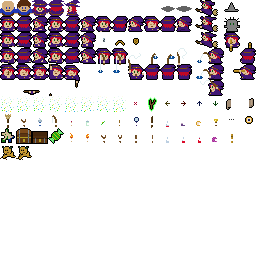
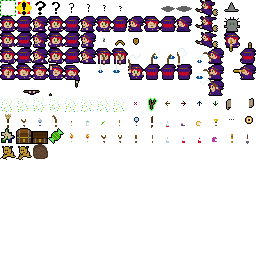
shovel, magnifier, buried treasure

Changed region(s): [[0.0, 0.0, 0.3125, 0.0625], [0.125, 0.5625, 0.1875, 0.625], [0.9375, 0.5312, 0.9688, 0.5625]]

diff --git a/src/game/hero/hero_item.c b/src/game/hero/hero_item.c
@@ -680,6 +680,146 @@ static void telescope_update(struct sprite *sprite,double elapsed) {
   }
 }
 
+/* Shovel. Update is passive.
+ */
+ 
+static void shovel_update(struct sprite *sprite,double elapsed) {
+  SPRITE->qx=(int)(sprite->x+SPRITE->facedx*0.750);
+  SPRITE->qy=(int)(sprite->y+SPRITE->facedy*0.750);
+}
+ 
+static int shovel_begin(struct sprite *sprite) {
+
+  // Confirm map cell is vacant or safe.
+  struct map *map=map_by_sprite_position(SPRITE->qx,SPRITE->qy,sprite->z);
+  if (!map) return 0;
+  int col=SPRITE->qx%NS_sys_mapw;
+  int row=SPRITE->qy%NS_sys_maph;
+  uint8_t physics=map->physics[map->v[row*NS_sys_mapw+col]];
+  switch (physics) {
+    case NS_physics_vacant:
+    case NS_physics_safe:
+      break;
+    default: return 0;
+  }
+  
+  // Check whether there's already a hole there.
+  double x=SPRITE->qx+0.5;
+  double y=SPRITE->qy+0.5;
+  struct sprite **otherp=GRP(visible)->sprv;
+  int i=GRP(visible)->sprc;
+  for (;i-->0;otherp++) {
+    struct sprite *other=*otherp;
+    if (other->defunct) continue;
+    if (other->rid!=RID_sprite_hole) continue;
+    if (other->x<x-0.1) continue;
+    if (other->x>x+0.1) continue;
+    if (other->y<y-0.1) continue;
+    if (other->y>y+0.1) continue;
+    return 0; // Already dug.
+  }
+  
+  // Do it.
+  struct sprite *hole=sprite_spawn(x,y,RID_sprite_hole,0,0,0,0,0);
+  if (!hole) return 0;
+  //TODO digging animation
+  
+  // Scan map's commands for anything buried here.
+  struct cmdlist_reader reader={.v=map->cmd,.c=map->cmdc};
+  struct cmdlist_entry cmd;
+  while (cmdlist_reader_next(&cmd,&reader)>0) {
+    switch (cmd.opcode) {
+      case CMD_map_buriedtreasure: {
+          if (cmd.arg[0]!=col) continue;
+          if (cmd.arg[1]!=row) continue;
+          int fld=(cmd.arg[2]<<8)|cmd.arg[3];
+          if (store_get_fld(fld)) continue;
+          store_set_fld(fld,1);
+          int itemid=(cmd.arg[4]<<8)|cmd.arg[5];
+          int quantity=cmd.arg[6];
+          game_get_item(itemid,quantity);
+          return 1;
+        }
+    }
+  }
+  
+  // Nothing buried here, so just make the dig sound and we're done.
+  bm_sound(RID_sound_dig);
+  return 1;
+}
+
+/* Magnifier. Updates passively.
+ * Copies most of Divining Rod's logic, and borrows some of the same plumbing.
+ */
+ 
+static void magnifier_update(struct sprite *sprite,double elapsed) {
+  int qx=(int)sprite->x;
+  int qy=(int)sprite->y;
+  if ((qx==SPRITE->qx)&&(qy==SPRITE->qy)) return;
+  SPRITE->qx=qx;
+  SPRITE->qy=qy;
+}
+
+static double nearest_secret_distance2(const struct secret *v,int c,double x,double y) {
+  double bestd2=999.999;
+  for (;c-->0;v++) {
+    double dx=v->x-x;
+    double dy=v->y-y;
+    double d2=dx*dx+dy*dy;
+    if (d2<bestd2) bestd2=d2;
+  }
+  return bestd2;
+}
+ 
+static int magnifier_begin(struct sprite *sprite) {
+  SPRITE->divining_alert_clock=0.500;
+  int soundid=RID_sound_negatory;
+
+  /* Prepare the alerts with quantized positions and the negative tile.
+   */
+  struct divining_alert *alert=SPRITE->divining_alertv;
+  int dy=-1; for (;dy<=1;dy++) {
+    int dx=-1; for (;dx<=1;dx++,alert++) {
+      alert->tileid=0x68;
+      alert->x=(SPRITE->qx+dx)*NS_sys_tilesize+(NS_sys_tilesize>>1);
+      alert->y=(SPRITE->qy+dy)*NS_sys_tilesize+(NS_sys_tilesize>>1);
+    }
+  }
+  
+  /* Ask map store to list nearby secrets.
+   * If there's none, we can wrap up.
+   */
+  #define SECRETS_LIMIT 8
+  struct secret secretv[SECRETS_LIMIT];
+  int secretc=game_find_secrets(secretv,SECRETS_LIMIT,sprite->x,sprite->y,sprite->z,8.0);
+  #undef SECRETS_LIMIT
+  if (secretc<1) {
+    bm_sound(RID_sound_negatory);
+    return 1;
+  }
+  
+  /* For each cell in (divining_alertv), find the distance to the nearest secret,
+   * and that determines the tile we'll display.
+   * If we show anything other than the default 0x68, we'll play the affirmative sound.
+   */
+  for (alert=SPRITE->divining_alertv,dy=-1;dy<=1;dy++) {
+    int dx=-1; for (;dx<=1;dx++,alert++) {
+      double alertx=SPRITE->qx+dx+0.5;
+      double alerty=SPRITE->qy+dy+0.5;
+      double distance=nearest_secret_distance2(secretv,secretc,alertx,alerty);
+           if (distance<0.5*0.5) { soundid=RID_sound_affirmative; alert->tileid=0x01; }
+      else if (distance<1.5*1.5) { soundid=RID_sound_affirmative; alert->tileid=0x02; }
+      else if (distance<2.5*2.5) { soundid=RID_sound_affirmative; alert->tileid=0x03; }
+      else if (distance<3.5*3.5) { soundid=RID_sound_affirmative; alert->tileid=0x04; }
+      else if (distance<4.5*4.5) { soundid=RID_sound_affirmative; alert->tileid=0x05; }
+      else if (distance<5.5*5.5) { soundid=RID_sound_affirmative; alert->tileid=0x06; }
+      else if (distance<6.5*6.5) { soundid=RID_sound_affirmative; alert->tileid=0x07; }
+    }
+  }
+  bm_sound(soundid);
+  return 1;
+}
+
 /* Update items, main entry point.
  */
  
@@ -700,11 +840,13 @@ void hero_item_update(struct sprite *sprite,double elapsed) {
     return;
   }
   
-  /* Divining Rod and Compass get updated passively just by virtue of being equipped.
+  /* Some items get updated passively just by virtue of being equipped.
    */
   switch (g.store.invstorev[0].itemid) {
     case NS_itemid_divining: divining_update(sprite,elapsed); break;
     case NS_itemid_compass: compass_update(sprite,elapsed); break;
+    case NS_itemid_shovel: shovel_update(sprite,elapsed); break;
+    case NS_itemid_magnifier: magnifier_update(sprite,elapsed); break;
   }
   
   // No starting items if injured.
@@ -734,6 +876,8 @@ void hero_item_update(struct sprite *sprite,double elapsed) {
       case NS_itemid_bell: result=bell_begin(sprite); break;
       case NS_itemid_barrelhat: result=barrelhat_begin(sprite); break;
       case NS_itemid_telescope: result=telescope_begin(sprite); break;
+      case NS_itemid_shovel: result=shovel_begin(sprite); break;
+      case NS_itemid_magnifier: result=magnifier_begin(sprite); break;
     }
     if (!result) {
       bm_sound(RID_sound_reject);

diff --git a/src/game/game.c b/src/game/game.c
@@ -517,6 +517,15 @@ static const struct item_detail item_detailv[]={
     .inventoriable=1,
     .fld16=0,
   },
+  [NS_itemid_shovel]={
+    .tileid=0x4d,
+    .hand_tileid=0x8f,
+    .strix_name=54,
+    .strix_help=55,
+    .initial_limit=0,
+    .inventoriable=1,
+    .fld16=0,
+  },
 };
  
 const struct item_detail *item_detail_for_itemid(int itemid) {
@@ -637,4 +646,88 @@ void game_hurt_hero() {
     store_set_fld16(NS_fld16_hp,hp);
     bm_sound(RID_sound_ouch);
   }
+}
+
+/* List nearby secrets, within one map.
+ */
+ 
+static int game_find_secrets_1(struct secret *dst,int dsta,struct map *map,double x,double y,double r2) {
+  if (dsta<1) return 0;
+  int dstc=0;
+  double x0=(double)(map->lng*NS_sys_mapw)+0.5;
+  double y0=(double)(map->lat*NS_sys_maph)+0.5;
+  struct cmdlist_reader reader={.v=map->cmd,.c=map->cmdc};
+  struct cmdlist_entry cmd;
+  while (cmdlist_reader_next(&cmd,&reader)>0) {
+    switch (cmd.opcode) {
+    
+      case CMD_map_door: {
+          //TODO I'm sure we'll soon want buried doors in addition to buried treasure.
+        } break;
+        
+      case CMD_map_buriedtreasure: {
+          int fld=(cmd.arg[2]<<8)|cmd.arg[3];
+          if (store_get_fld(fld)) break; // Already got; skip it.
+          double poix=cmd.arg[0]+x0;
+          double poiy=cmd.arg[1]+y0;
+          double dx=x-poix;
+          double dy=y-poiy;
+          double d2=dx*dx+dy*dy;
+          if (d2<r2) {
+            struct secret *secret=dst+dstc++;
+            secret->map=map;
+            secret->cmd=cmd;
+            secret->x=poix;
+            secret->y=poiy;
+            secret->d2=d2;
+            if (dstc>=dsta) return dstc;
+          }
+        } break;
+    }
+  }
+  return dstc;
+}
+
+/* List nearby secrets.
+ */
+ 
+int game_find_secrets(struct secret *dst,int dsta,double x,double y,int z,double radius) {
+  if (!dst||(dsta<1)) return 0;
+  struct plane *plane=plane_by_position(z);
+  if (!plane||(plane->w<1)) return 0;
+  int planew=plane->w*NS_sys_mapw;
+  int planeh=plane->h*NS_sys_maph;
+
+  /* Calculate bounds as integer plane meters, and clamp to the plane.
+   * (xz,yz) are exclusive.
+   */
+  int xa=(int)(x-radius); if (xa<0) xa=0;
+  int xz=(int)(x+radius)+1; if (xz>planew) xz=planew;
+  int ya=(int)(y-radius); if (ya<0) ya=0;
+  int yz=(int)(y+radius)+1; if (yz>planeh) yz=planeh;
+  int w=xz-xa; if (w<1) return 0;
+  int h=yz-ya; if (h<1) return 0;
+  
+  /* Determine map coverage.
+   */
+  int mx=xa/NS_sys_mapw;
+  int mw=xz/NS_sys_mapw-mx+1;
+  int my=ya/NS_sys_maph;
+  int mh=yz/NS_sys_maph-my+1;
+  
+  /* Iterate maps.
+   */
+  int dstc=0;
+  double r2=radius*radius;
+  struct map *maprow=plane->v+my*plane->w+mx;
+  for (;mh-->0;maprow+=plane->w) {
+    struct map *map=maprow;
+    int xi=mw;
+    for (;xi-->0;map++) {
+      dstc+=game_find_secrets_1(dst+dstc,dsta-dstc,map,x,y,r2);
+      if (dstc>=dsta) return dstc;
+    }
+  }
+
+  return dstc;
 }

diff --git a/src/game/shared_symbols.h b/src/game/shared_symbols.h
@@ -37,6 +37,7 @@
 #define CMD_map_rsprite         0x61 /* u16:rid u8:weight u8:limit u32:arg */
 #define CMD_map_door            0x62 /* u16:pos u16:rid u16:dstpos u16:reserved */
 #define CMD_map_compass         0x63 /* u16:pos u16:compass u16:fld u16:reserved ; For compass targets that can't be inferred generically. */
+#define CMD_map_buriedtreasure  0x64 /* u16:pos u16:fld u16:itemid u8:quantity u8:reserved */
 #define CMD_map_debugmsg        0xe0 /* ...:text ; Drawn hackfully over the map's image. For use during dev. */
 
 #define CMD_sprite_image        0x20 /* u16:rid */
@@ -121,6 +122,7 @@
 #define NS_itemid_heartcontainer 21
 #define NS_itemid_barrelhat 22
 #define NS_itemid_telescope 23
+#define NS_itemid_shovel 24
 #define FOR_EACH_itemid \
   _(stick) \
   _(broom) \
@@ -144,7 +146,8 @@
   _(bell) \
   _(heartcontainer) \
   _(barrelhat) \
-  _(telescope)
+  _(telescope) \
+  _(shovel)
 
 /* NPC activities are hard-coded. Select one from this list.
  */
@@ -242,6 +245,10 @@
 #define NS_fld_target_sidequest 29
 #define NS_fld_target_gold 30
 #define NS_fld_rescued_princess 31
+#define NS_fld_bt1 32
+#define NS_fld_bt2 33
+#define NS_fld_bt3 34
+#define NS_fld_bt4 35
 
 /* "fld16" are 16 unsigned bits each.
  */

diff --git a/src/game/hero/hero_render.c b/src/game/hero/hero_render.c
@@ -333,6 +333,20 @@ void hero_render(struct sprite *sprite,int x,int y) {
     case NS_itemid_telescope: hero_render_telescope(sprite,x,y); return;
   }
   
+  /* When the shovel is armed, draw a preview square.
+   */
+  if (g.store.invstorev[0].itemid==NS_itemid_shovel) {
+    int shx=SPRITE->qx*NS_sys_tilesize-g.camera.rx+(NS_sys_tilesize>>1);
+    int shy=SPRITE->qy*NS_sys_tilesize-g.camera.ry+(NS_sys_tilesize>>1);
+    uint8_t xform=0;
+    switch ((g.framec/10)&3) {
+      case 1: xform=EGG_XFORM_SWAP|EGG_XFORM_XREV; break;
+      case 2: xform=EGG_XFORM_XREV|EGG_XFORM_YREV; break;
+      case 3: xform=EGG_XFORM_SWAP|EGG_XFORM_YREV; break;
+    }
+    graf_tile(&g.graf,shx,shy,0x00,xform);
+  }
+  
   uint8_t itemtileid=0;
   const struct item_detail *detail=item_detail_for_equipped();
   if (detail) {

diff --git a/src/game/game.h b/src/game/game.h
@@ -106,4 +106,16 @@ int game_choose_fish(int x,int y,int z);
 
 void game_hurt_hero();
 
+/* Generate a list of select POI within a given radius of a point on one plane.
+ * Never returns more than (dsta). Stops searching when full, so it doesn't necessarily return the closest.
+ * Will not return secrets already got.
+ */
+struct secret {
+  struct map *map;
+  struct cmdlist_entry cmd;
+  double x,y; // Plane meters to center of tile (ie n.5)
+  double d2; // (sqrt(d2)) if you need the real distance, I figure we don't always need it.
+};
+int game_find_secrets(struct secret *dst,int dsta,double x,double y,int z,double radius);
+
 #endif

diff --git a/src/game/hero/hero_internal.h b/src/game/hero/hero_internal.h
@@ -16,7 +16,7 @@ struct sprite_hero {
   double walkanimclock;
   int walkanimframe;
   double potionclock; // Animating potion.
-  int qx,qy,root; // Stays fresh passively while divining rod armed. Otherwise (-1,-1,0). Most POI interactions use feet.
+  int qx,qy,root; // Stays fresh passively while divining rod armed. Otherwise (-1,-1,0). Most POI interactions use feet. Shovel too.
   struct divining_alert {
     int x,y; // plane pixels, to the center of the cell.
     uint8_t tileid;

diff --git a/src/game/hero/sprite_hero.c b/src/game/hero/sprite_hero.c
@@ -113,8 +113,7 @@ static void _hero_update(struct sprite *sprite,double elapsed) {
   }
   
   if (SPRITE->divining_alert_clock>0.0) {
-    if (g.store.invstorev[0].itemid==NS_itemid_divining) SPRITE->divining_alert_clock-=elapsed;
-    else SPRITE->divining_alert_clock=0.0;
+    SPRITE->divining_alert_clock-=elapsed;
   }
   if (SPRITE->matchclock>0.0) {
     if ((SPRITE->matchclock-=elapsed)<=0.0) {

diff --git a/README.md b/README.md
@@ -25,8 +25,8 @@ Requires [Egg](https://github.com/aksommerville/egg2) to build.
 - [x] Telescope.
 - [x] Magnetic North.
 - [x] Add a shop in Fractia: Candy, Bug Spray, Matches, Vanishing Cream. (all the depletables except potion)
-- [ ] Shovel, for buried treasure.
-- [ ] Magnifier: Operate about like Divining Rod, but hint at distance to buried treasure.
+- [x] Shovel, for buried treasure.
+- [x] Magnifier: Operate about like Divining Rod, but hint at distance to buried treasure.
 - [ ] Fishsmith: Trade fish for goods.
 - [ ] Is it possible to reach inconsistent states by pausing while item in progress?
 - [ ] Door transitions. Fade to black? Spotlight?
@@ -60,6 +60,7 @@ Requires [Egg](https://github.com/aksommerville/egg2) to build.
 - - Snowglobe? Maybe too powerful, as implemented in Full Moon and Dead Weight.
 - [ ] Strangling contest animation. It's all coded and ready, but the two animation frames are identical.
 - [ ] Knitter incremental prizes.
+- [ ] Animate digging with shovel.
 
 - Beta test. Aim to have this underway before GDEX.
 - - [ ] Automated system in-app to gather a log.
